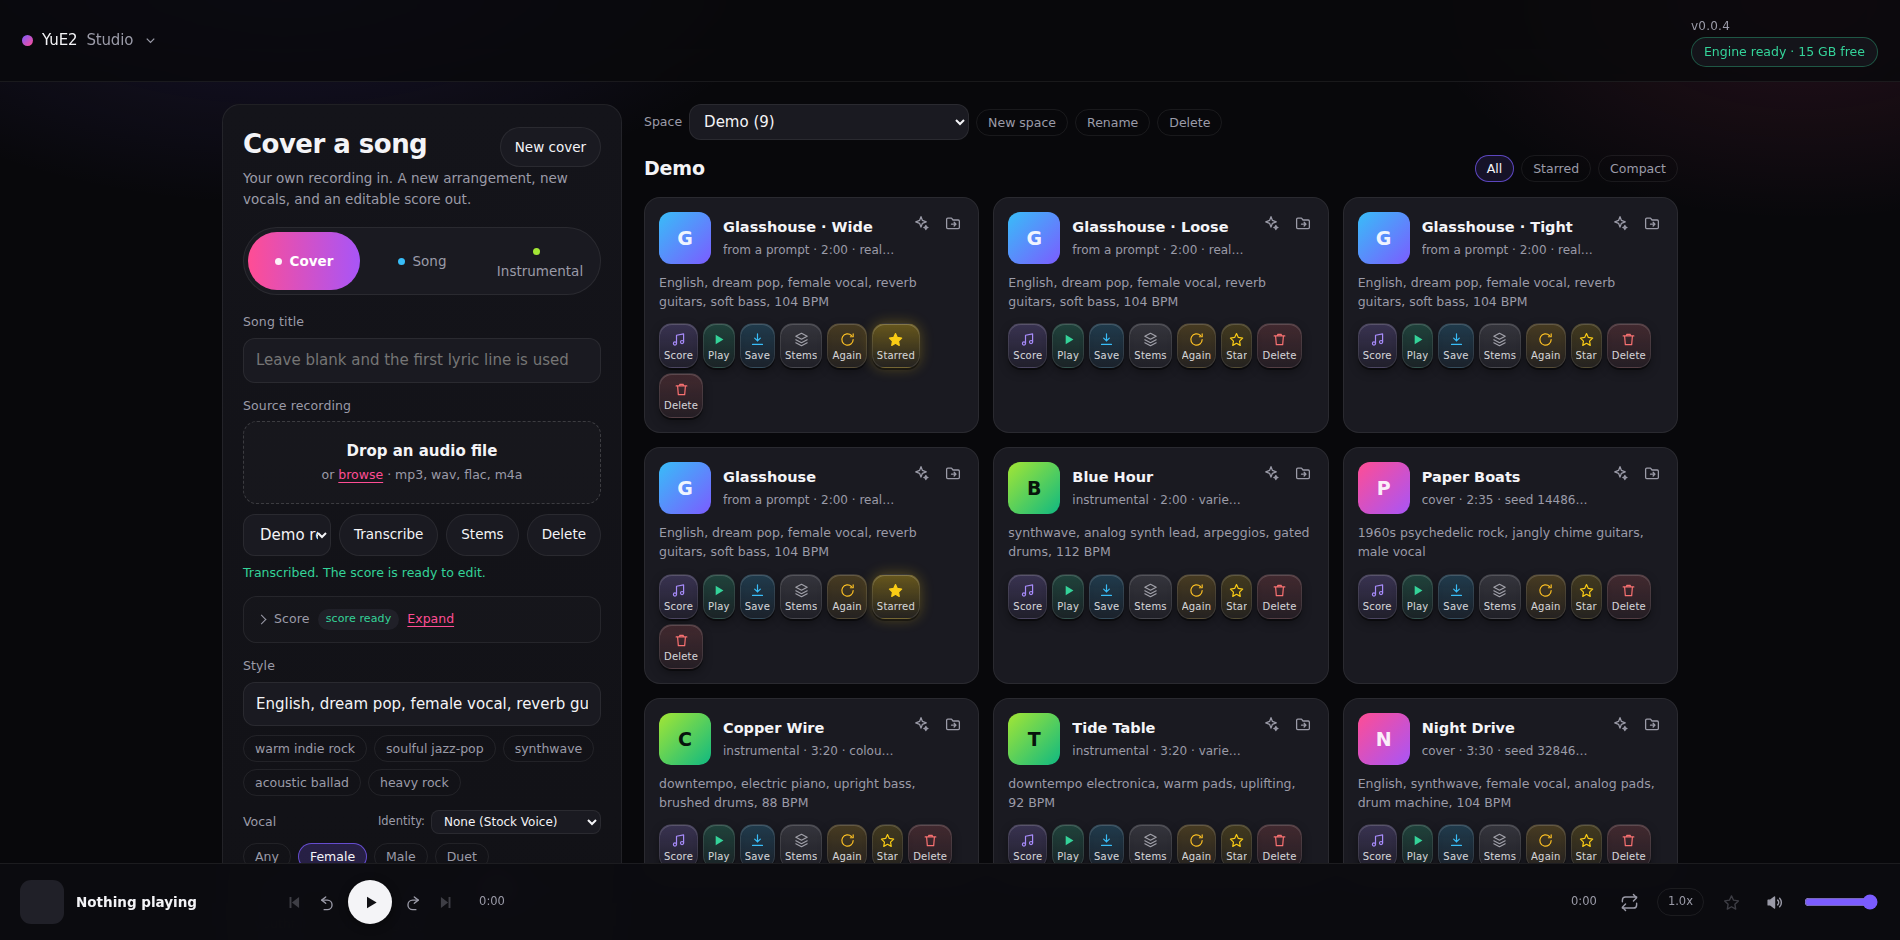
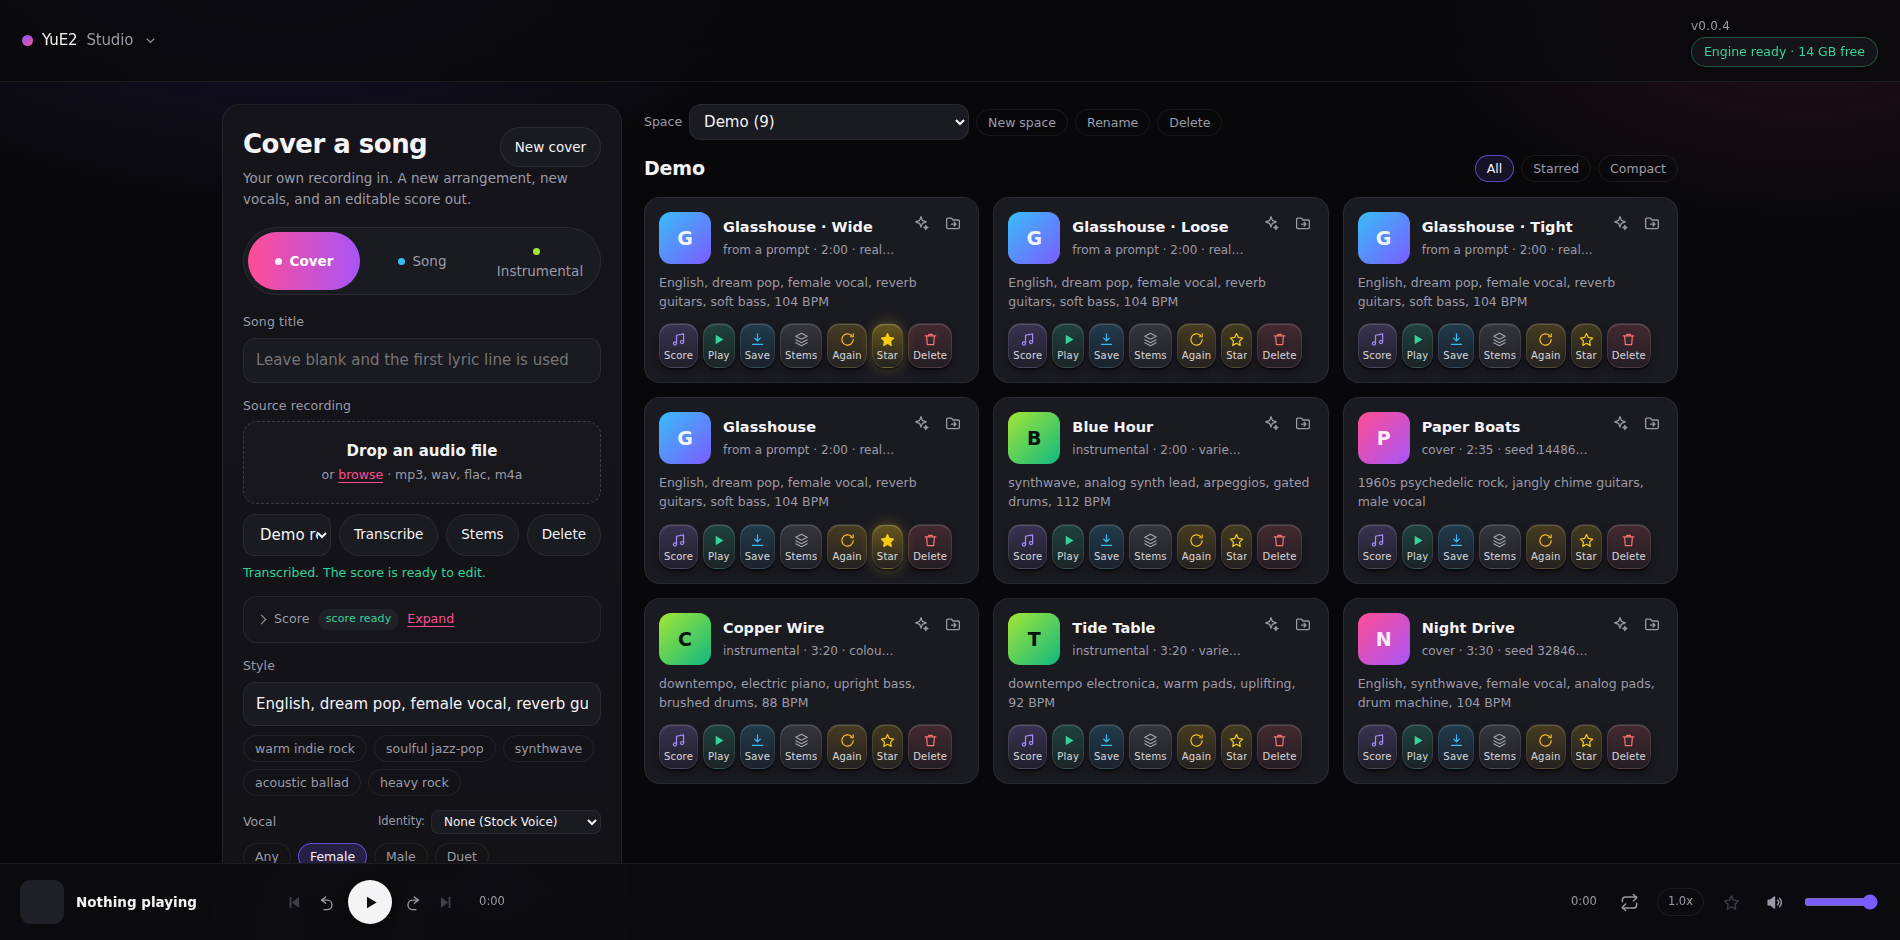
Cards keep their tiles on one row, and shortcuts stop at an open window
A starred card read 'Starred' where an unstarred one read 'Star', and the wider
word pushed Delete onto a second row in the compact layout, leaving that card
taller than its neighbours. The label now stays 'Star' in both states, which the
gold filled icon already told you, with the word moved to the tooltip; the tile
row no longer wraps, so the tiles shrink as the comment there always said they
should. Play and Pause would have done the same in time.

Separately, Space and the arrow keys were bound on the document and reached the
player bar and the volume through any window open in front of it. They now stop
at an open modal.

The compact layout screenshot is retaken, since the old one showed the wrap.

Changed region(s): [[0.3416, 0.4011, 0.6832, 0.9255], [0.7142, 0.4319, 0.8695, 0.9255], [0.4658, 0.3394, 0.4968, 0.4011]]

diff --git a/app/static/app.js b/app/static/app.js
@@ -2326,8 +2326,8 @@ function icon(name) {
     'stroke-linecap="round" stroke-linejoin="round" aria-hidden="true">' + ICONS[name] + '</svg>';
 }
 
-function tile(kind, iconName, label, attrs) {
-  return '<button class="act ' + kind + '" ' + (attrs || '') + ' title="' + label + '">' +
+function tile(kind, iconName, label, attrs, title) {
+  return '<button class="act ' + kind + '" ' + (attrs || '') + ' title="' + (title || label) + '">' +
     icon(iconName) + '<span>' + label + '</span></button>';
 }
 
@@ -2571,6 +2571,12 @@ function paintTakes() {
       live = '<div class="take-status ready">plan ready</div>';
     } else if (status !== 'done') {
       live = '<div class="take-meta">' + esc(status === 'queued' ? 'waiting for the engine' : status) + '</div>';
+    } else if (take.kind === 'instrumental' && take.vocal_check >= 0.1) {
+      // The LoRA keeps the voice out on most seeds and not all. The finished
+      // audio is checked, so a spoiled take says so rather than puzzling you.
+      live = '<div class="take-status sung" title="Rendered again with a new seed it usually comes out clean. ' +
+        'Choosing the sections rather than letting YuE2 decide helps too.">singing in ' +
+        Math.round(take.vocal_check * 100) + '% of this instrumental</div>';
     }
     var id = ' data-id="' + take.id + '"';
     var actions = '';
@@ -2611,7 +2617,8 @@ function paintTakes() {
       actions += tile('stems', 'stems', 'Stems', 'data-act="stems"' + id);
       actions += tile('again', 'again', 'Again', 'data-act="again"' + id);
     }
-    actions += tile('star' + (take.favourite ? ' on' : ''), 'star', take.favourite ? 'Starred' : 'Star', 'data-act="star"' + id);
+    actions += tile('star' + (take.favourite ? ' on' : ''), 'star', 'Star', 'data-act="star"' + id,
+                    take.favourite ? 'Starred. Click to remove the star.' : 'Star this take');
     actions += tile('del', 'trash', 'Delete', 'data-act="del"' + id);
     var classes = 'take';
     if (State.playing === take.id) { classes += ' playing'; }
@@ -3686,9 +3693,11 @@ function wire() {
       return;
     }
 
-    // Playback shortcuts, but never while typing.
+    // Playback shortcuts, but never while typing, and never through a window
+    // that is open in front: space belongs to whatever the eye is on.
     var tag = (focus && focus.tagName) || '';
     if (tag === 'INPUT' || tag === 'TEXTAREA' || tag === 'SELECT') { return; }
+    if (document.querySelector('.modal:not(.hidden)')) { return; }
     if (event.code === 'Space') { event.preventDefault(); $('btn-play').click(); }
     else if (event.key === 'ArrowLeft') { nudge(-5); }
     else if (event.key === 'ArrowRight') { nudge(5); }

diff --git a/app/static/styles.css b/app/static/styles.css
@@ -459,7 +459,7 @@ details.block[open] > summary { margin-bottom: 10px; }
 .take-style { color: var(--muted); font-size: 12.5px; display: -webkit-box; -webkit-line-clamp: 2; -webkit-box-orient: vertical; overflow: hidden; }
 /* ---------------------------------------------------------------- action tiles
    Colour carries meaning. Raised by default, and they press down when clicked. */
-.take-actions { display: flex; gap: 5px; flex-wrap: wrap; align-items: center; margin-top: 2px; }
+.take-actions { display: flex; gap: 5px; flex-wrap: nowrap; align-items: center; margin-top: 2px; }
 
 .act {
   --tint: #a1a1aa;
@@ -683,3 +683,4 @@ details.block[open] > summary { margin-bottom: 10px; }
 .identity-export code, .persona-export code { font-size: 12px; word-break: break-all; }
 .identity-form.hidden, .persona-form.hidden { display: none; }
 #identity-edit, #persona-edit { margin: 4px 0 12px; padding: 12px 14px; border: 1px solid var(--line); border-radius: 14px; background: var(--card); }
+.take-status.sung { color: #fbbf24; background: rgba(251, 191, 36, 0.09); border: 1px solid rgba(251, 191, 36, 0.24); border-radius: 8px; padding: 4px 8px; font-size: 12px; }
